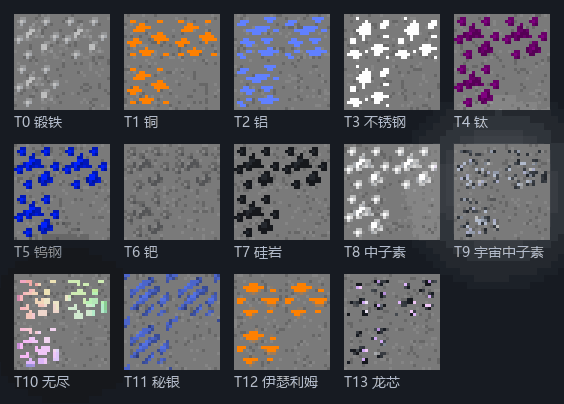
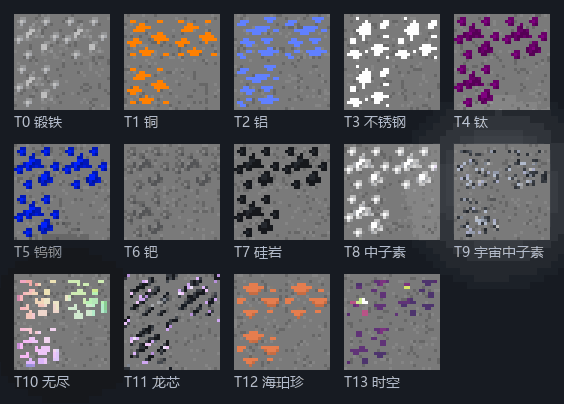
矿脉后三级材料调整：T11 龙芯、T12 海珀珍、T13 时空
· T11 龙芯：用原版龙芯矿石叠加层动画（10 帧来回播成 18 帧，每帧 4 tick），替换原来的秘银

· T12 海珀珍：没有原版贴图可用，按 GT++ 里 HYPOGEN 的定义色 #dc784b 重绘斑点，保留原有明暗；替换原来的伊瑟利姆

· T13 时空：用原版时空方块贴图（113 帧 × 3 tick，约 17 秒一轮）作为斑点色源

· 材料表不再手写颜色，颜色一律来自原版贴图或材料定义，避免维护出一份会漂移的假数据

diff --git a/src/game/vein-meta.ts b/src/game/vein-meta.ts
@@ -26,9 +26,9 @@ export const VEIN_META: VeinTierMeta[] = [
   { tier: 8, frames: 1, frameDurationsMs: [0], source: '静态' },
   { tier: 9, frames: 3, frameDurationsMs: [150, 150, 150], source: 'CUSTOM/cosmicneutronium/ore_OVERLAY.png' },
   { tier: 10, frames: 31, frameDurationsMs: [150, 150, 150, 150, 150, 150, 150, 150, 150, 150, 150, 150, 150, 150, 150, 150, 150, 150, 150, 150, 150, 150, 150, 150, 150, 150, 150, 150, 150, 150, 150], source: 'CUSTOM/infinity/block1.png' },
-  { tier: 11, frames: 1, frameDurationsMs: [0], source: '静态' },
-  { tier: 12, frames: 1, frameDurationsMs: [0], source: '静态' },
-  { tier: 13, frames: 18, frameDurationsMs: [200, 200, 200, 200, 200, 200, 200, 200, 200, 200, 200, 200, 200, 200, 200, 200, 200, 200], source: 'CUSTOM/draconium/ore_OVERLAY.png' },
+  { tier: 11, frames: 18, frameDurationsMs: [200, 200, 200, 200, 200, 200, 200, 200, 200, 200, 200, 200, 200, 200, 200, 200, 200, 200], source: 'CUSTOM/draconium/ore_OVERLAY.png' },
+  { tier: 12, frames: 1, frameDurationsMs: [0], source: '材料色 #dc784b' },
+  { tier: 13, frames: 113, frameDurationsMs: [150, 150, 150, 150, 150, 150, 150, 150, 150, 150, 150, 150, 150, 150, 150, 150, 150, 150, 150, 150, 150, 150, 150, 150, 150, 150, 150, 150, 150, 150, 150, 150, 150, 150, 150, 150, 150, 150, 150, 150, 150, 150, 150, 150, 150, 150, 150, 150, 150, 150, 150, 150, 150, 150, 150, 150, 150, 150, 150, 150, 150, 150, 150, 150, 150, 150, 150, 150, 150, 150, 150, 150, 150, 150, 150, 150, 150, 150, 150, 150, 150, 150, 150, 150, 150, 150, 150, 150, 150, 150, 150, 150, 150, 150, 150, 150, 150, 150, 150, 150, 150, 150, 150, 150, 150, 150, 150, 150, 150, 150, 150, 150, 150], source: 'CUSTOM/spacetime/block1.png' },
 ];
 
 export const VEIN_FX_META: Record<string, VeinFxMeta> = {

diff --git a/src/game/veins.ts b/src/game/veins.ts
@@ -39,31 +39,29 @@ export type VeinFx = 'none' | 'halo' | 'fuzzy';
 export interface VeinTierInfo extends VeinTierMeta {
   // 该阶段代表材料
   material: string;
-  color: string;
   fx: VeinFx;
 }
 
 interface VeinDesign {
   material: string;
-  color: string;
   fx: VeinFx;
 }
 
 const DESIGN: VeinDesign[] = [
-  { material: '锻铁', color: '#c0c0c0', fx: 'none' },
-  { material: '铜', color: '#ff8000', fx: 'none' },
-  { material: '铝', color: '#6080ff', fx: 'none' },
-  { material: '不锈钢', color: '#ffffff', fx: 'none' },
-  { material: '钛', color: '#8000ff', fx: 'none' },
-  { material: '钨钢', color: '#0020ff', fx: 'none' },
-  { material: '钯', color: '#808080', fx: 'none' },
-  { material: '硅岩', color: '#202020', fx: 'none' },
-  { material: '中子素', color: '#ffffff', fx: 'none' },
-  { material: '宇宙中子素', color: '#202020', fx: 'fuzzy' },
-  { material: '无尽', color: '#ffffff', fx: 'halo' },
-  { material: '秘银', color: '#6080ff', fx: 'none' },
-  { material: '伊瑟利姆', color: '#ff8000', fx: 'none' },
-  { material: '龙芯', color: '#ff00ff', fx: 'none' },
+  { material: '锻铁', fx: 'none' },
+  { material: '铜', fx: 'none' },
+  { material: '铝', fx: 'none' },
+  { material: '不锈钢', fx: 'none' },
+  { material: '钛', fx: 'none' },
+  { material: '钨钢', fx: 'none' },
+  { material: '钯', fx: 'none' },
+  { material: '硅岩', fx: 'none' },
+  { material: '中子素', fx: 'none' },
+  { material: '宇宙中子素', fx: 'fuzzy' },
+  { material: '无尽', fx: 'halo' },
+  { material: '龙芯', fx: 'none' },
+  { material: '海珀珍', fx: 'none' },
+  { material: '时空', fx: 'none' },
 ];
 
 export const VEIN_TIERS: VeinTierInfo[] = VEIN_META.map((meta) => ({

diff --git a/test/veins.test.ts b/test/veins.test.ts
@@ -4,12 +4,11 @@ import { VEIN_FX_META } from '../src/game/vein-meta';
 
 // 贴图条带、帧长、材料表是分开维护的，最容易出的错是对不上号（帧数与帧长列表不等长、等级缺项）。
 describe('矿脉贴图与特殊渲染', () => {
-  it('14 个等级都有贴图信息、材料名和有效颜色', () => {
+  it('14 个等级都有贴图信息和材料名', () => {
     expect(VEIN_TIERS).toHaveLength(14);
     VEIN_TIERS.forEach((info, tier) => {
       expect(info.tier, `第 ${tier} 级`).toBe(tier);
       expect(info.material.length, `第 ${tier} 级材料名`).toBeGreaterThan(0);
-      expect(info.color, `第 ${tier} 级颜色`).toMatch(/^#[0-9a-f]{6}$/i);
     });
   });
 
@@ -19,12 +18,13 @@ describe('矿脉贴图与特殊渲染', () => {
       expect(info.frameDurationsMs, `T${info.tier} 帧长数量`).toHaveLength(info.frames);
     }
     const animated = VEIN_TIERS.filter((info) => info.frames > 1).map((info) => info.tier);
-    expect(animated).toEqual([9, 10, 13]);
+    expect(animated).toEqual([9, 10, 11, 13]);
   });
 
   it('动画时长与原版贴图的 frametime 一致', () => {
     expect(veinLoopMs(veinTierInfo(10)!)).toBe(31 * 150);
-    expect(veinLoopMs(veinTierInfo(13)!)).toBe(18 * 200);
+    expect(veinLoopMs(veinTierInfo(11)!)).toBe(18 * 200);
+    expect(veinLoopMs(veinTierInfo(13)!)).toBe(113 * 150);
     expect(VEIN_FX_META.haloFuzzy?.frames).toBe(8);
     expect(VEIN_FX_META.haloFuzzy?.frameDurationsMs).toHaveLength(8);
   });

diff --git a/scripts/build-veins.py b/scripts/build-veins.py
@@ -45,7 +45,14 @@ JAR_GLOB = str(
 ANIMATED = {
     9: "assets/gregtech/textures/blocks/materialicons/CUSTOM/cosmicneutronium/ore_OVERLAY.png",
     10: "assets/gregtech/textures/blocks/materialicons/CUSTOM/infinity/block1.png",
-    13: "assets/gregtech/textures/blocks/materialicons/CUSTOM/draconium/ore_OVERLAY.png",
+    11: "assets/gregtech/textures/blocks/materialicons/CUSTOM/draconium/ore_OVERLAY.png",
+    13: "assets/gregtech/textures/blocks/materialicons/CUSTOM/spacetime/block1.png",
+}
+
+# 没有原版贴图可用的材料，用材料自己的颜色重绘斑点（保留原有明暗）。
+# 海珀珍（Hypogen）的颜色取自 GT++ 里 MaterialsElements$STANDALONE 的定义：RGBA {220, 120, 75, 2}
+STATIC_DYE = {
+    12: "#dc784b",
 }
 
 # 特殊渲染的光晕贴图：原版 InfinityRenderer 用 HALO，CosmicNeutroniumRenderer 用 HALO_FUZZY
@@ -94,6 +101,31 @@ def is_ore_pixel(pixel: tuple[int, int, int, int]) -> bool:
     saturation = 0 if brightest == 0 else (brightest - darkest) / brightest
     luminance = (0.299 * r + 0.587 * g + 0.114 * b) / 255
     return saturation > 0.15 or luminance > 0.62 or luminance < 0.30
+
+
+def luminance(color: tuple[int, int, int, int]) -> float:
+    return (0.299 * color[0] + 0.587 * color[1] + 0.114 * color[2]) / 255
+
+
+def recolor(base: Image.Image, dye: str) -> Image.Image:
+    """把斑点换成材料色：保留每个斑点像素的明暗比例，只换掉色相。"""
+    target = tuple(int(dye[i : i + 2], 16) for i in (1, 3, 5))
+    target_lum = luminance((*target, 255))
+    tile = base.copy()
+    pixels = tile.load()
+    for y in range(tile.height):
+        for x in range(tile.width):
+            color = pixels[x, y]
+            if not is_ore_pixel(color):
+                continue
+            factor = luminance(color) / target_lum
+            pixels[x, y] = (
+                min(255, round(target[0] * factor)),
+                min(255, round(target[1] * factor)),
+                min(255, round(target[2] * factor)),
+                color[3],
+            )
+    return tile
 
 
 def read_frame(
@@ -160,7 +192,9 @@ def main() -> None:
             base = Image.open(BASE_DIR / f"t{index}.png").convert("RGBA")
             path = ANIMATED.get(index)
             if path is None:
-                strip, frames, durations, source = base, 1, [0], "静态"
+                dye = STATIC_DYE.get(index)
+                tile = recolor(base, dye) if dye else base
+                strip, frames, durations, source = tile, 1, [0], f"材料色 {dye}" if dye else "静态"
             else:
                 animation = read_animation(archive, path)
                 texture = Image.open(io.BytesIO(archive.read(path))).convert("RGBA")
